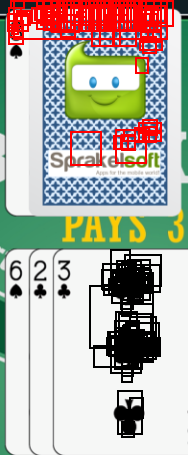
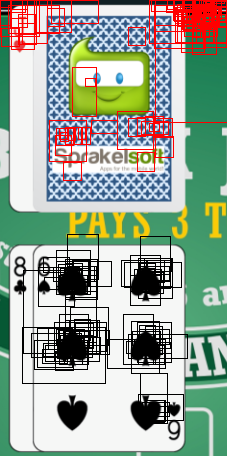
consmetics in gui

diff --git a/gui.py b/gui.py
@@ -259,10 +259,10 @@ class GUI(threading.Thread):
                     #     player_pred_scores.append(pred_scores[i])
 
                 for i in range(0,len(dealer_pred_scores)):
-                    draw.rectangle([(dealer_pred_boxes[i][0],dealer_pred_boxes[i][1]),(dealer_pred_boxes[i][2],dealer_pred_boxes[i][3])],outline='red',width=2)
+                    draw.rectangle([(dealer_pred_boxes[i][0],dealer_pred_boxes[i][1]),(dealer_pred_boxes[i][2],dealer_pred_boxes[i][3])],outline='red',width=1)
 
                 for i in range(0,len(player_pred_scores)):
-                    draw.rectangle([(player_pred_boxes[i][0],half_image+player_pred_boxes[i][1]),(player_pred_boxes[i][2],half_image+player_pred_boxes[i][3])],outline='black',width=2)
+                    draw.rectangle([(player_pred_boxes[i][0],half_image+player_pred_boxes[i][1]),(player_pred_boxes[i][2],half_image+player_pred_boxes[i][3])],outline='black',width=1)
 
 
                 player_pred_labels=list(set(player_pred_labels))
